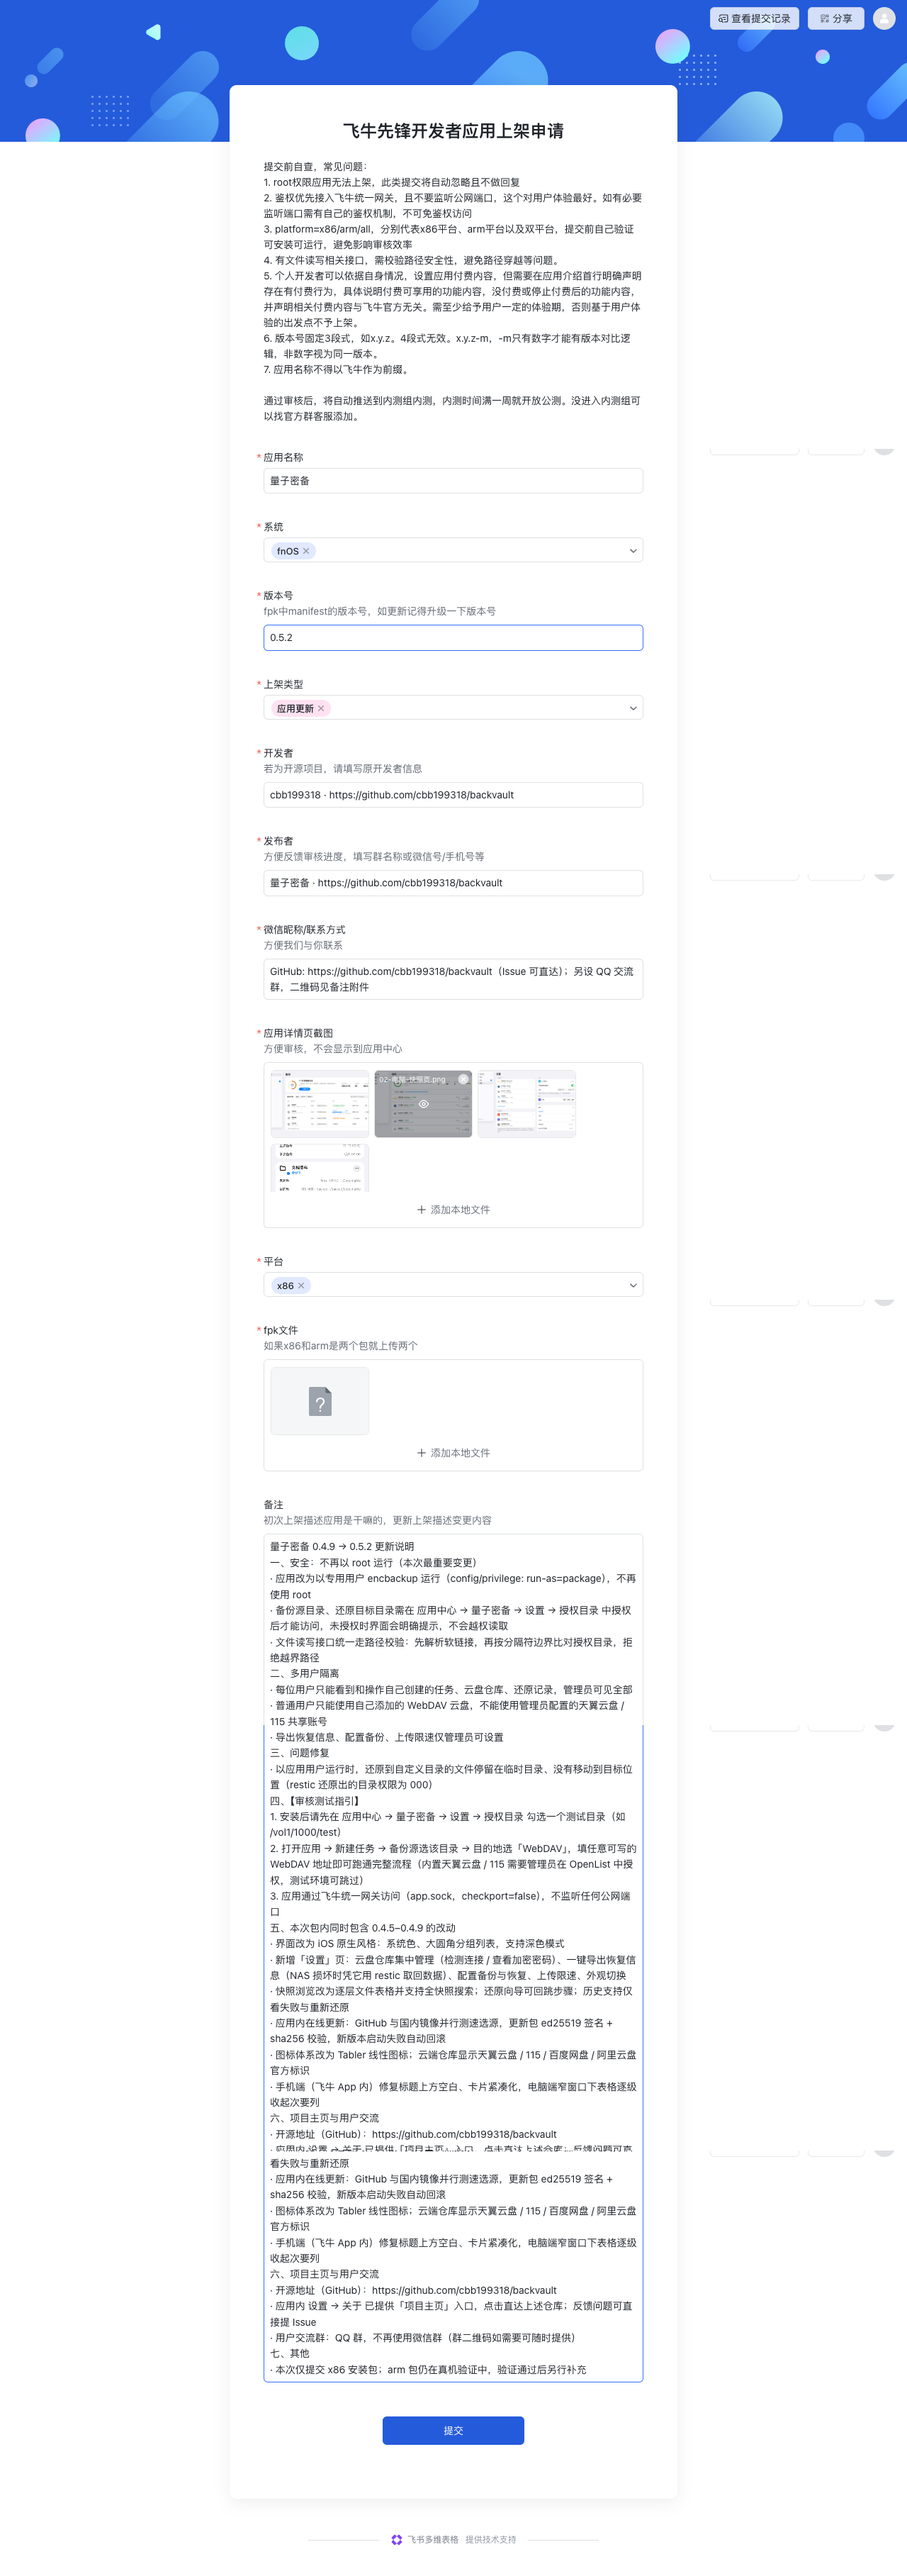
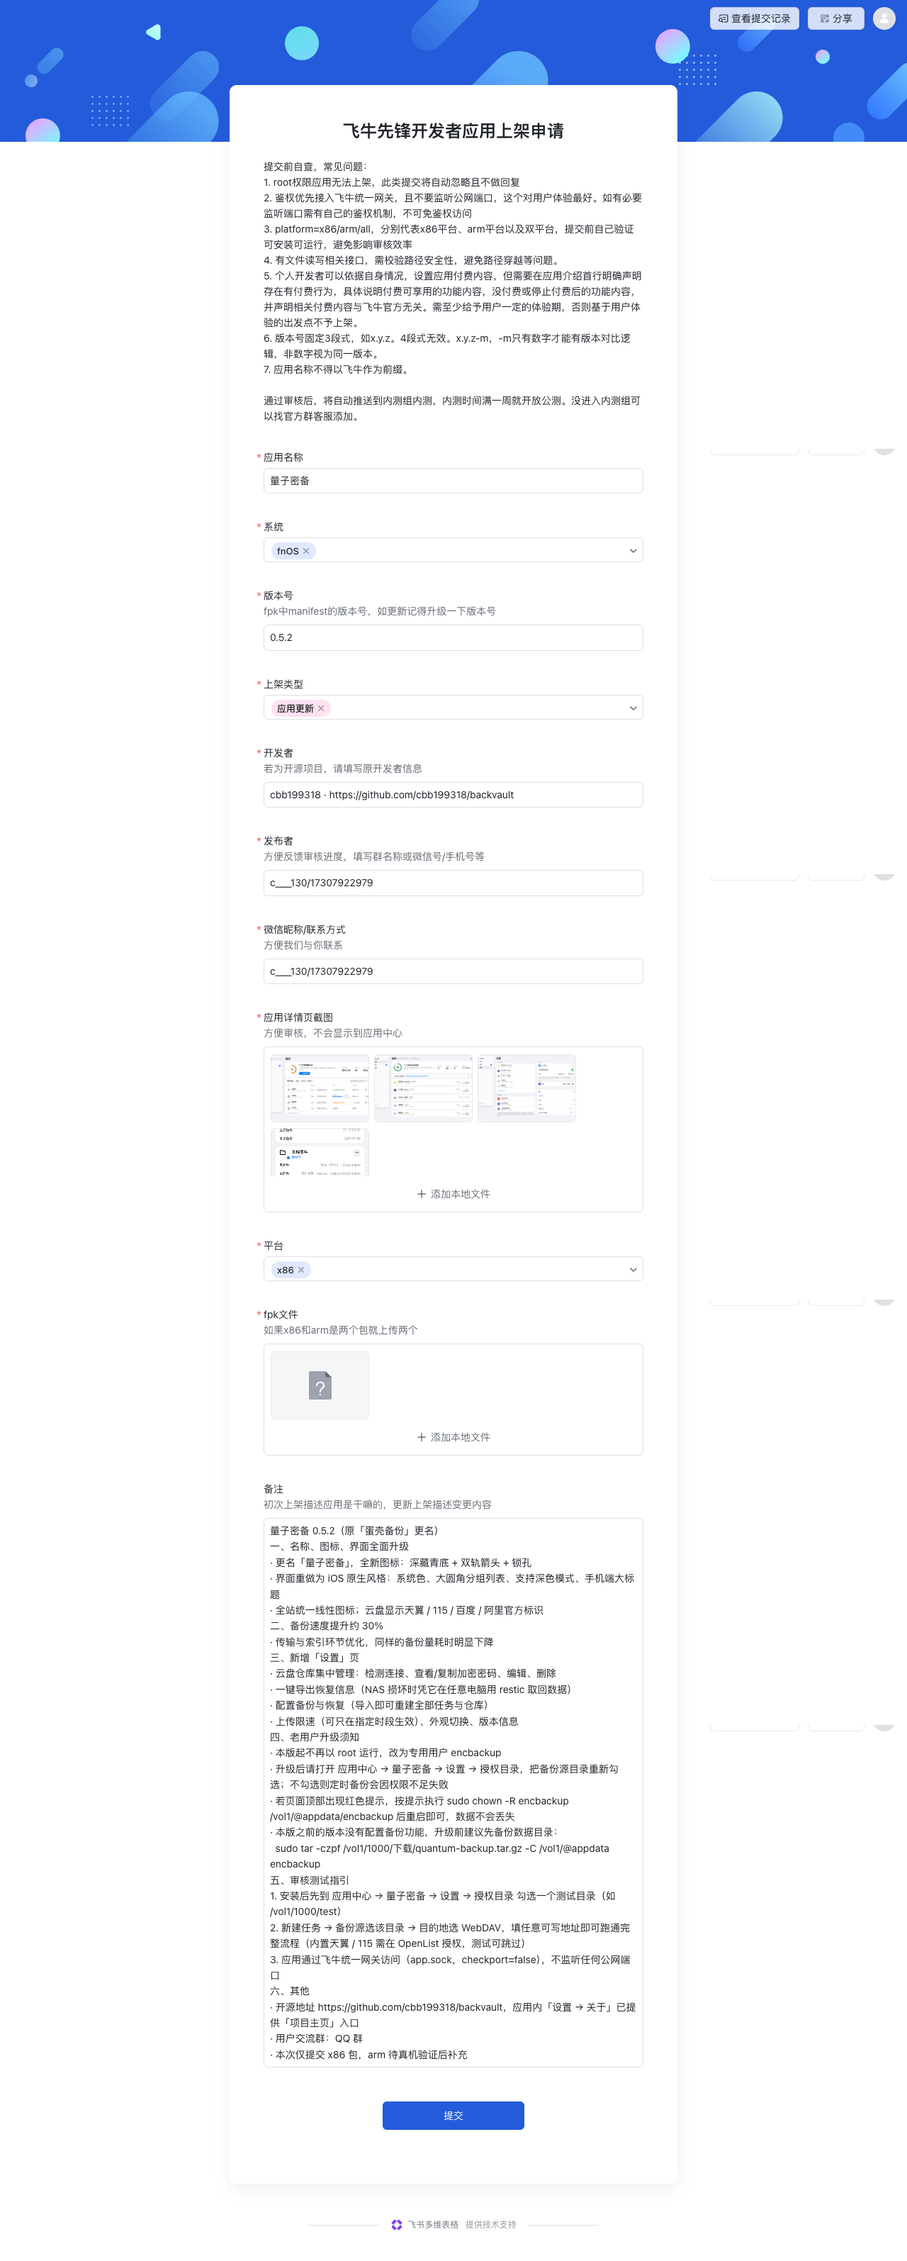
docs(上架): 发布者与联系方式改微信号，备注按四点重写
- 发布者 / 微信昵称：c___130/17307922979
- 备注精简为四块：名称图标UI升级 / 备份速度+30% / 新增设置页 / 老用户升级须知
- 重填后的整页截图替换

diff --git a/design/上架申请-0.5.2.md b/design/上架申请-0.5.2.md
@@ -12,8 +12,8 @@
 | 版本号 * | `0.5.2` |
 | 上架类型 * | `应用更新` |
 | 开发者 * | `cbb199318 · https://github.com/cbb199318/backvault` |
-| 发布者 * | `量子密备 · https://github.com/cbb199318/backvault` |
-| 微信昵称/联系方式 * | `GitHub: https://github.com/cbb199318/backvault（Issue 可直达）；另设 QQ 交流群，二维码见备注附件` |
+| 发布者 * | `c___130/17307922979` |
+| 微信昵称/联系方式 * | `c___130/17307922979` |
 | 应用详情页截图 * | `jarvis/fpk/encbackup-app/design/上架截图-0.5.2/` 下 4 张 |
 | 平台 * | `x86`（arm 包只到 0.5.0，本次不提） |
 | fpk文件 * | `outputs/量子密备0.5.2.fpk`（42 MB，md5 `4fdda9dc1b360452569ad26620d16c63`） |
@@ -31,41 +31,38 @@
 ## 备注（整段复制）
 
 ```
-量子密备 0.4.9 → 0.5.2 更新说明
+量子密备 0.5.2（原「蛋壳备份」更名）
 
-一、安全：不再以 root 运行（本次最重要变更）
-· 应用改为以专用用户 encbackup 运行（config/privilege: run-as=package），不再使用 root
-· 备份源目录、还原目标目录需在 应用中心 → 量子密备 → 设置 → 授权目录 中授权后才能访问，未授权时界面会明确提示，不会越权读取
-· 文件读写接口统一走路径校验：先解析软链接，再按分隔符边界比对授权目录，拒绝越界路径
+一、名称、图标、界面全面升级
+· 更名「量子密备」，全新图标：深藏青底 + 双轨箭头 + 锁孔
+· 界面重做为 iOS 原生风格：系统色、大圆角分组列表、支持深色模式、手机端大标题
+· 全站统一线性图标；云盘显示天翼 / 115 / 百度 / 阿里官方标识
 
-二、多用户隔离
-· 每位用户只能看到和操作自己创建的任务、云盘仓库、还原记录，管理员可见全部
-· 普通用户只能使用自己添加的 WebDAV 云盘，不能使用管理员配置的天翼云盘 / 115 共享账号
-· 导出恢复信息、配置备份、上传限速仅管理员可设置
+二、备份速度提升约 30%
+· 传输与索引环节优化，同样的备份量耗时明显下降
 
-三、问题修复
-· 以应用用户运行时，还原到自定义目录的文件停留在临时目录、没有移动到目标位置（restic 还原出的目录权限为 000）
+三、新增「设置」页
+· 云盘仓库集中管理：检测连接、查看/复制加密密码、编辑、删除
+· 一键导出恢复信息（NAS 损坏时凭它在任意电脑用 restic 取回数据）
+· 配置备份与恢复（导入即可重建全部任务与仓库）
+· 上传限速（可只在指定时段生效）、外观切换、版本信息
 
-四、【审核测试指引】
-1. 安装后请先在 应用中心 → 量子密备 → 设置 → 授权目录 勾选一个测试目录（如 /vol1/1000/test）
-2. 打开应用 → 新建任务 → 备份源选该目录 → 目的地选「WebDAV」，填任意可写的 WebDAV 地址即可跑通完整流程（内置天翼云盘 / 115 需要管理员在 OpenList 中授权，测试环境可跳过）
+四、老用户升级须知
+· 本版起不再以 root 运行，改为专用用户 encbackup
+· 升级后请打开 应用中心 → 量子密备 → 设置 → 授权目录，把备份源目录重新勾选；不勾选则定时备份会因权限不足失败
+· 若页面顶部出现红色提示，按提示执行 sudo chown -R encbackup /vol1/@appdata/encbackup 后重启即可，数据不会丢失
+· 本版之前的版本没有配置备份功能，升级前建议先备份数据目录：
+  sudo tar -czpf /vol1/1000/下载/quantum-backup.tar.gz -C /vol1/@appdata encbackup
+
+五、审核测试指引
+1. 安装后先到 应用中心 → 量子密备 → 设置 → 授权目录 勾选一个测试目录（如 /vol1/1000/test）
+2. 新建任务 → 备份源选该目录 → 目的地选 WebDAV，填任意可写地址即可跑通完整流程（内置天翼 / 115 需在 OpenList 授权，测试可跳过）
 3. 应用通过飞牛统一网关访问（app.sock，checkport=false），不监听任何公网端口
 
-五、本次包内同时包含 0.4.5–0.4.9 的改动
-· 界面改为 iOS 原生风格：系统色、大圆角分组列表，支持深色模式
-· 新增「设置」页：云盘仓库集中管理（检测连接 / 查看加密密码）、一键导出恢复信息（NAS 损坏时凭它用 restic 取回数据）、配置备份与恢复、上传限速、外观切换
-· 快照浏览改为逐层文件表格并支持全快照搜索；还原向导可回跳步骤；历史支持仅看失败与重新还原
-· 应用内在线更新：GitHub 与国内镜像并行测速选源，更新包 ed25519 签名 + sha256 校验，新版本启动失败自动回滚
-· 图标体系改为 Tabler 线性图标；云端仓库显示天翼云盘 / 115 / 百度网盘 / 阿里云盘官方标识
-· 手机端（飞牛 App 内）修复标题上方空白、卡片紧凑化，电脑端窄窗口下表格逐级收起次要列
-
-六、项目主页与用户交流
-· 开源地址（GitHub）：https://github.com/cbb199318/backvault
-· 应用内 设置 → 关于 已提供「项目主页」入口，点击直达上述仓库；反馈问题可直接提 Issue
-· 用户交流群：QQ 群，不再使用微信群（群二维码如需要可随时提供）
-
-七、其他
-· 本次仅提交 x86 安装包；arm 包仍在真机验证中，验证通过后另行补充
+六、其他
+· 开源地址 https://github.com/cbb199318/backvault，应用内「设置 → 关于」已提供「项目主页」入口
+· 用户交流群：QQ 群
+· 本次仅提交 x86 包，arm 待真机验证后补充
 ```
 
 ## 提交前逐条对一遍（对应表单顶部 7 条自查）
@@ -80,10 +77,12 @@
 | 6. 版本号三段式 | ✅ `0.5.2` |
 | 7. 名称不以飞牛开头 | ✅ `量子密备` |
 
-## 表单已实际填写一次（2026-11-13 14:43，未点提交）
+## 表单已实际填写一次（2026-11-13 14:56 重填，未点提交）
 
 浏览器里已填好并完成两次上传，只差按「提交」。填写结果整页截图：`design/上架申请-0.5.2-填写结果.png`。
 
+- 发布者 / 微信昵称：`c___130/17307922979`
+- 备注：按「名称图标UI升级 / 备份速度+30% / 新增设置页 / 老用户升级须知」四块重写（约 950 字）
 - 应用详情页截图：4 张，已上传（页面显示 4 个文件名）
 - fpk文件：`量子密备0.5.2.fpk`，已上传（42 MB）
 - 平台：`x86`；系统：`fnOS`；上架类型：`应用更新`
